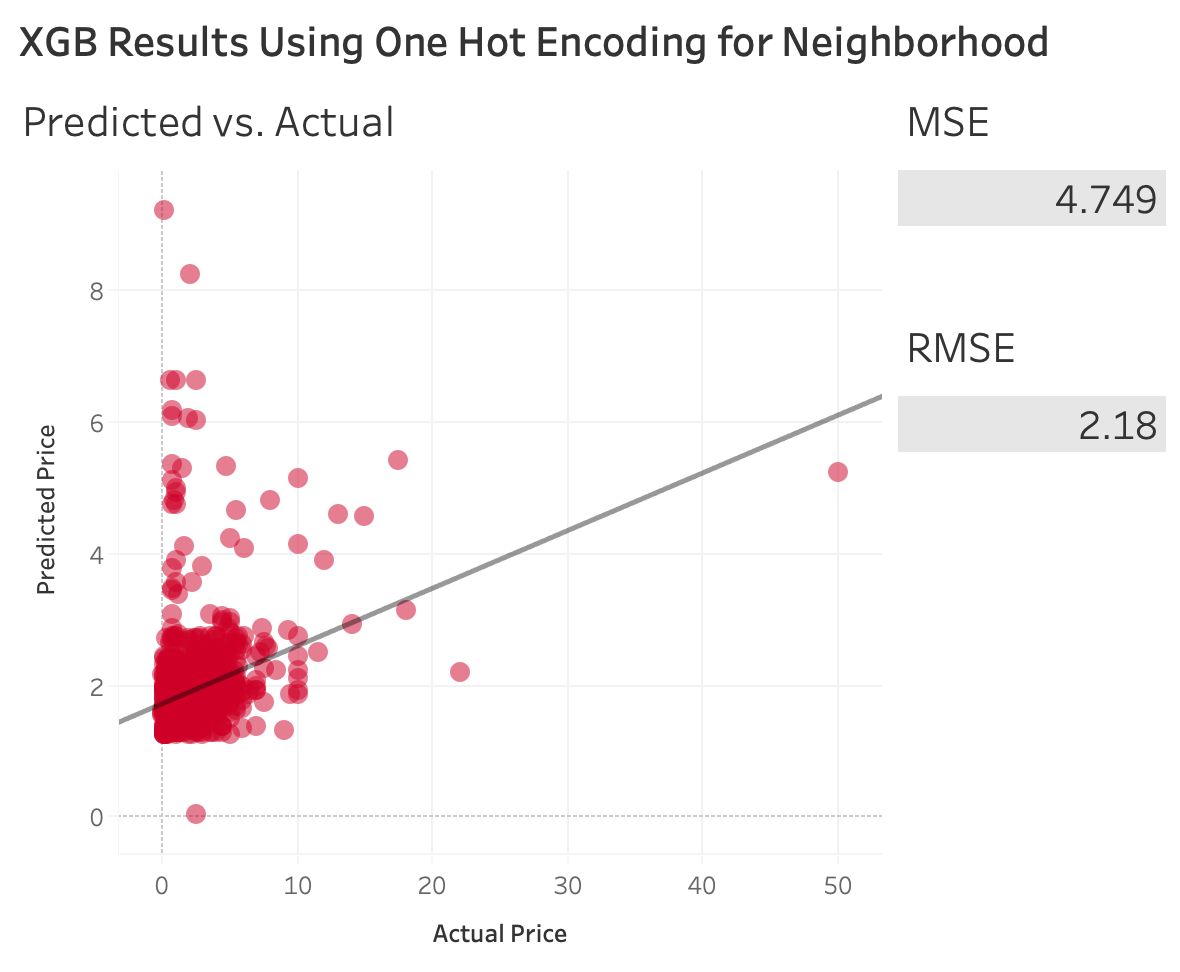
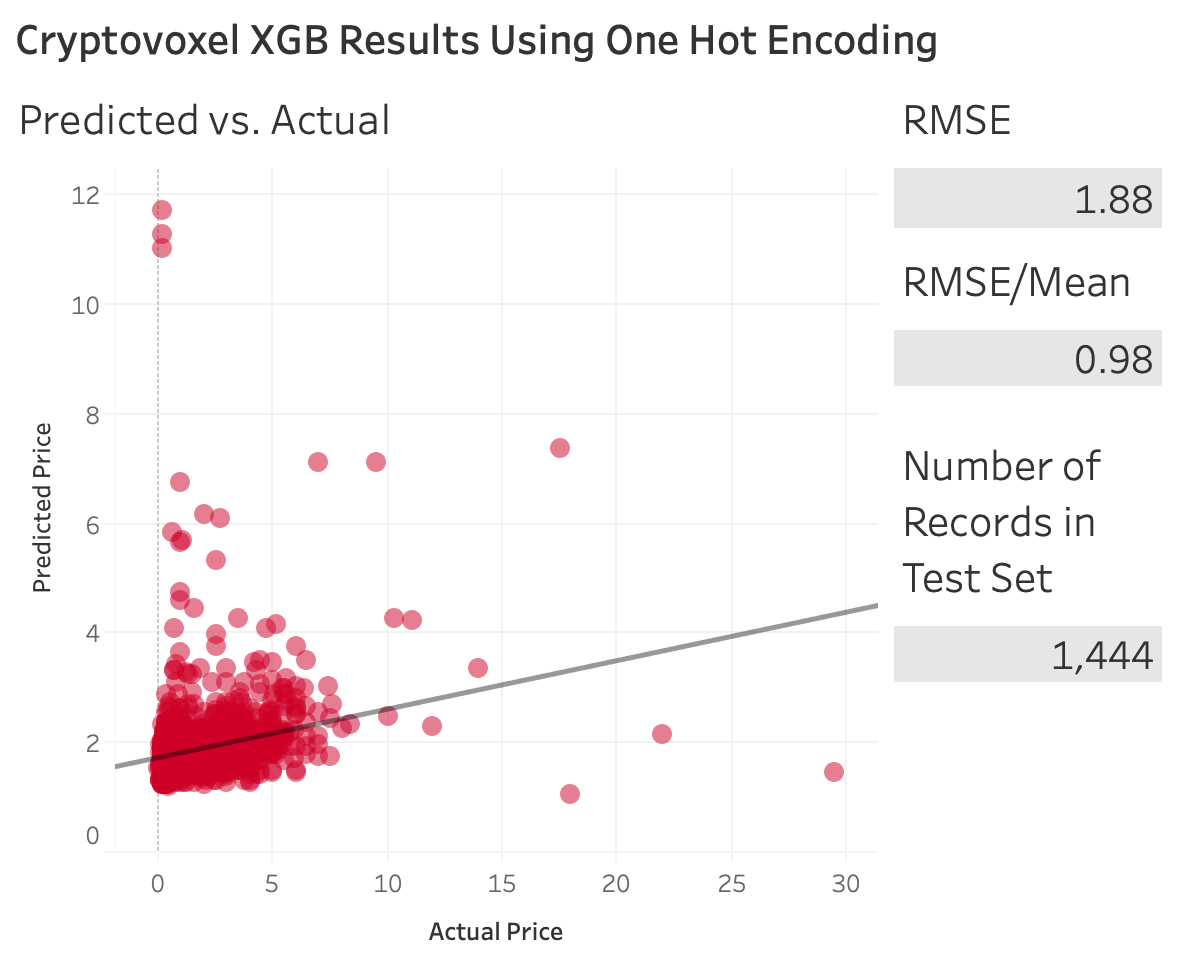
more outliers removed, better model achieved; readme update

diff --git a/cryptovoxel_xgb.py b/cryptovoxel_xgb.py
@@ -255,7 +255,7 @@ def main(encode_type, norm_target):
         sys.exit()
 
     # remove outliers
-    df_outliers_removed = remove_outliers(df=df_features_numeric, target='last_sale_total_price_adj', threshold=75)
+    df_outliers_removed = remove_outliers(df=df_features_numeric, target='last_sale_total_price_adj', threshold=50)
     print(f"Data after outlier removal has {len(df_outliers_removed)} records.")
 
     if norm_target == True:

diff --git a/README.md b/README.md
@@ -58,11 +58,11 @@ One hot encoding seems to perform slightly better.
 
 ### Modeling with Outliers Removed
 
-After removing outliers with Prices greather than 70 ETH:
+After removing outliers with Prices greater than 50 ETH, and tuning the model a bitmore, these are the results:
 
 <img src="https://github.com/datavizhokie/opensea-rest/blob/main/img/xgb_outliers_removed_1he.png" width="250" height="200">
 
-Further scope analysis should produce a more targeted model.
+The RMSE/Mean finally snuck under 1.0! This is quite reasonable given the limited features, but further scope analysis and feature exploration should produce an even more efficient model.
 
 ### Comparing to Brick & Mortar Home Sales
 
